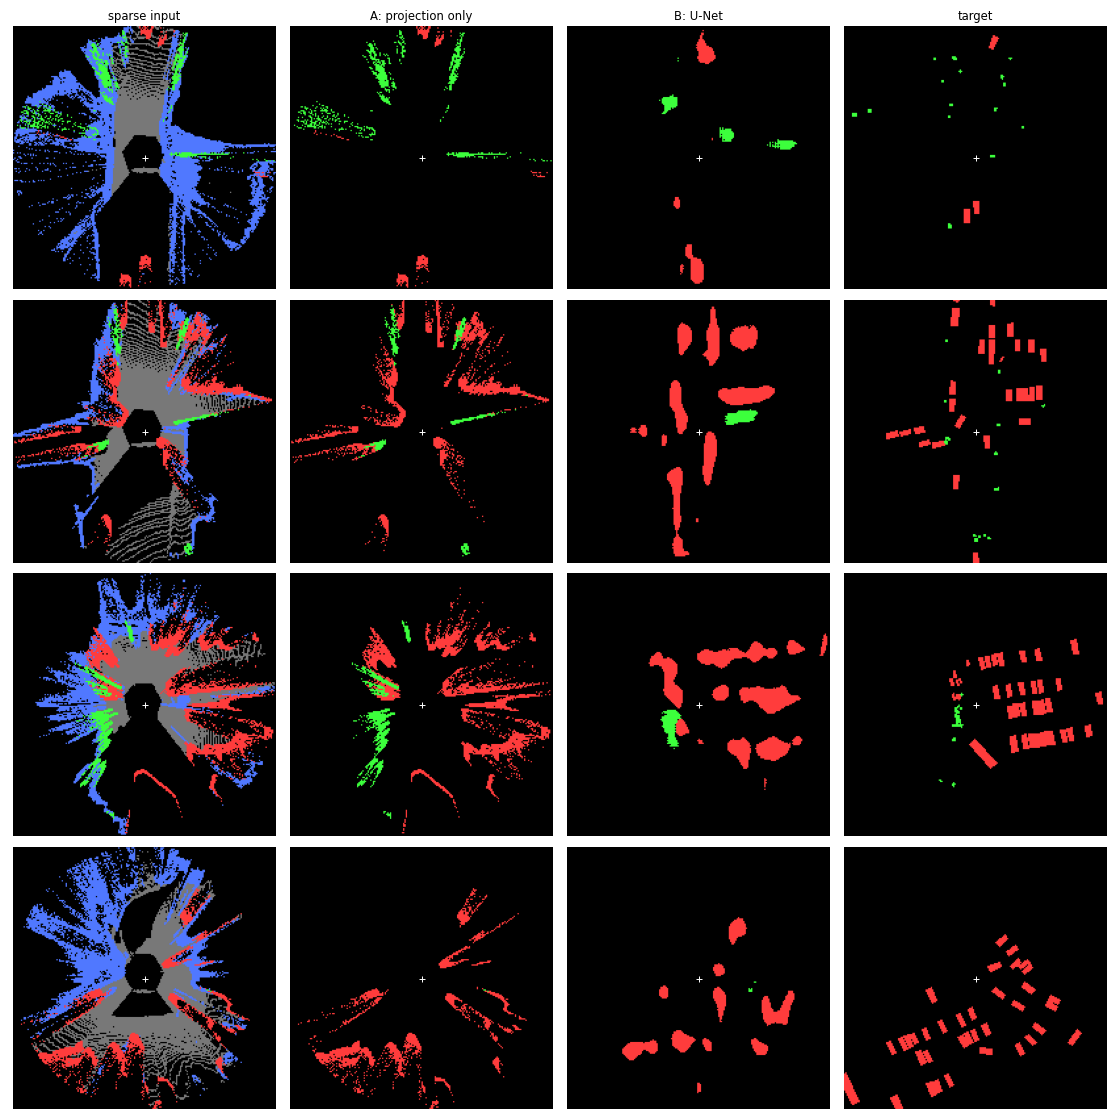
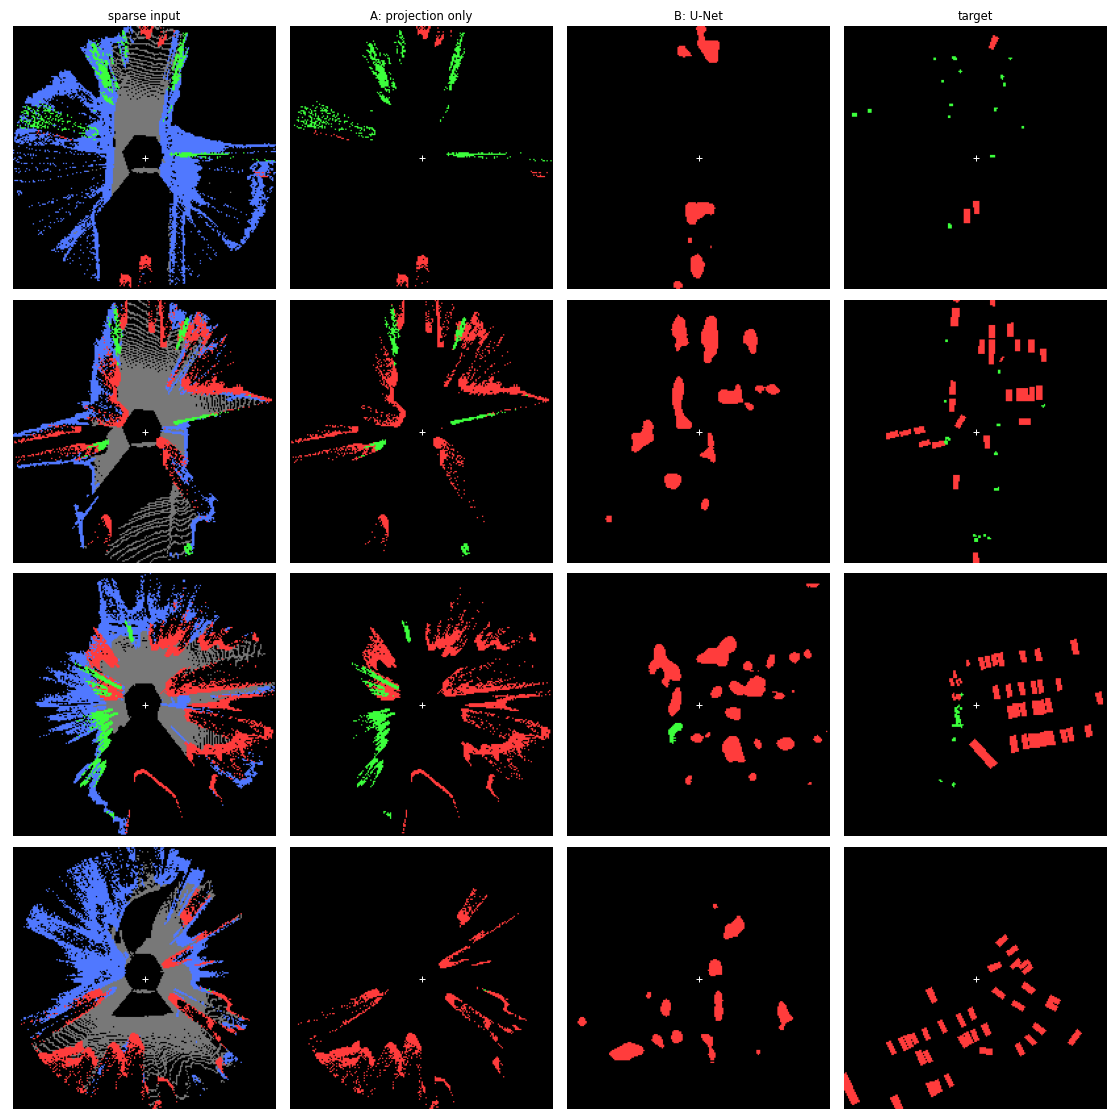
Hold out scene-0655 for model selection; report on mini_val as test only

diff --git a/dataset.py b/dataset.py
@@ -8,10 +8,27 @@ from torch.utils.data import Dataset
 
 class BEVDataset(Dataset):
     def __init__(self, cfg, split, augment=False):
-        """split: 'train' or 'val' (index.csv says mini_train / mini_val in the split column)."""
+        """split: 'train', 'val' or 'test'.
+
+        The split mapping lives here and only here. index.csv labels frames mini_train/mini_val
+        (called 'train'/'val' there). Selecting the best checkpoint and early stopping on the
+        same split we report would leak the test set into model selection. So:
+          train = index 'train' minus the held-out scene cfg['data']['val_scene']
+          val   = that held-out scene (model selection / early stopping, used by train.py)
+          test  = index 'val' = mini_val (reported numbers only, used by evaluate.py)
+        """
         out_dir = os.path.expanduser(cfg["out_dir"])
+        val_scene = cfg["data"]["val_scene"]
         with open(os.path.join(out_dir, "index.csv")) as f:
-            rows = [r for r in csv.DictReader(f) if r["split"] == split]
+            all_rows = list(csv.DictReader(f))
+        if split == "test":
+            rows = [r for r in all_rows if r["split"] == "val"]
+        elif split == "val":
+            rows = [r for r in all_rows if r["split"] == "train" and r["scene_name"] == val_scene]
+        elif split == "train":
+            rows = [r for r in all_rows if r["split"] == "train" and r["scene_name"] != val_scene]
+        else:
+            raise ValueError(f"unknown split {split!r}")
         sparse, target = [], []
         for r in rows:
             d = np.load(os.path.join(out_dir, r["token"] + ".npz"))

diff --git a/evaluate.py b/evaluate.py
@@ -1,4 +1,4 @@
-"""Evaluate baselines on mini_val.  Usage: python evaluate.py --config config.yaml
+"""Evaluate baselines on the test split (= mini_val).  Usage: python evaluate.py --config config.yaml
 
 Every method is a function  sparse [4,H,W] uint8 numpy -> prediction [H,W] int in {0,1,2}.
 To add a method later (e.g. diffusion), write such a function and add it to METHODS.
@@ -51,7 +51,7 @@ def main():
     ap = argparse.ArgumentParser()
     ap.add_argument("--config", default="config.yaml")
     cfg = yaml.safe_load(open(ap.parse_args().config))
-    val = BEVDataset(cfg, "val", augment=False)
+    val = BEVDataset(cfg, "test", augment=False)
 
     # (name, function). Hook: append e.g. ("Diffusion", make_diffusion_method(cfg)) here.
     methods = [("A: projection only", projection_only),
@@ -70,9 +70,9 @@ def main():
     out_dir = cfg["eval"]["results_dir"]
     os.makedirs(out_dir, exist_ok=True)
     with open(os.path.join(out_dir, "results.md"), "w") as f:
-        f.write(f"mIoU = mean of vehicle and pedestrian IoU, on mini_val ({len(val)} samples)\n\n{table}\n")
+        f.write(f"mIoU = mean of vehicle and pedestrian IoU, on test = mini_val ({len(val)} samples)\n\n{table}\n")
 
-    # Qualitative figure: evenly spaced val samples; columns = sparse | each method | target.
+    # Qualitative figure: evenly spaced test samples; columns = sparse | each method | target.
     k = cfg["eval"]["num_qualitative"]
     ids = np.linspace(0, len(val) - 1, k).astype(int)
     names = [n for n, _ in methods if n in ("A: projection only", "B: U-Net")] or [methods[0][0]]

diff --git a/train.py b/train.py
@@ -77,7 +77,7 @@ def main():
     val_ds = BEVDataset(cfg, "val", augment=False)
     train_dl = DataLoader(train_ds, t["batch_size"], shuffle=True, num_workers=t["num_workers"], drop_last=True)
     val_dl = DataLoader(val_ds, t["batch_size"], shuffle=False, num_workers=t["num_workers"])
-    print(f"train {len(train_ds)} samples, val {len(val_ds)} samples")
+    print(f"train {len(train_ds)} samples, val {len(val_ds)} samples (held-out scene {cfg['data']['val_scene']}; test = mini_val is not used here)")
 
     weights, freq = class_weights(train_ds.target, cfg["unet"]["num_classes"])
     print("class freq", freq.round(5), "-> CE weights", weights.numpy().round(3))

diff --git a/results/results.md b/results/results.md
@@ -1,7 +1,7 @@
-mIoU = mean of vehicle and pedestrian IoU, on mini_val (81 samples)
+mIoU = mean of vehicle and pedestrian IoU, on test = mini_val (81 samples)
 
 | Method | Vehicle IoU | Pedestrian IoU | mIoU |
 |---|---|---|---|
 | A: projection only | 0.096 | 0.004 | 0.050 |
 | A+: projection + 3x3 dilation | 0.097 | 0.004 | 0.051 |
-| B: U-Net | 0.178 | 0.030 | 0.104 |
+| B: U-Net | 0.151 | 0.041 | 0.096 |
